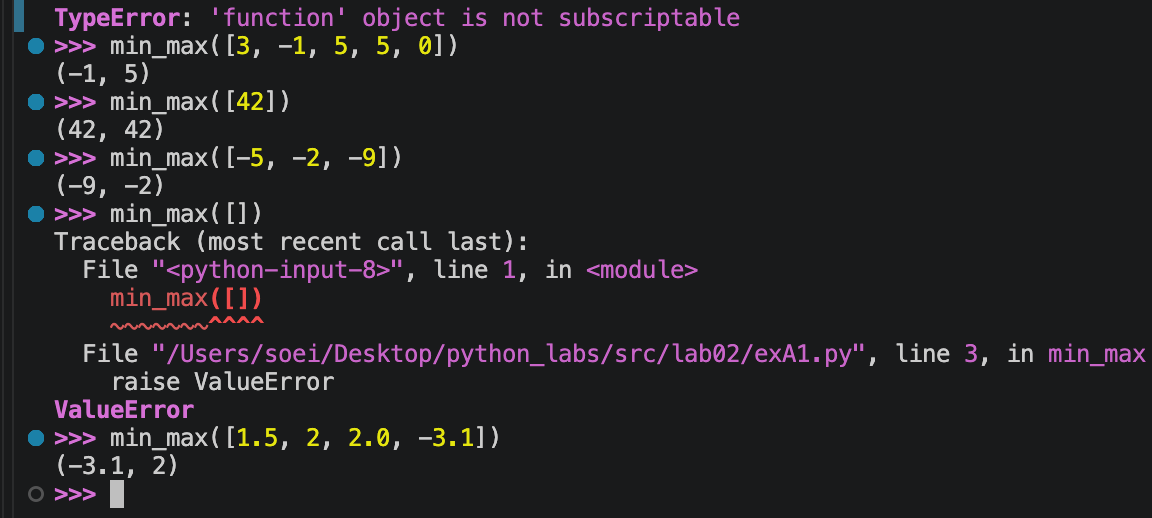
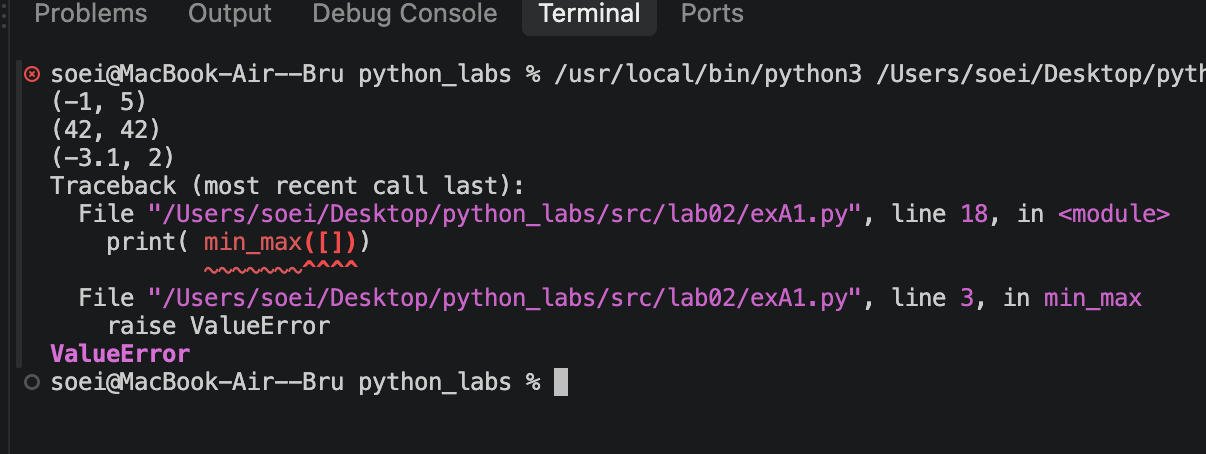
laba

Changed region(s): [[0.0, 0.0, 1.0, 0.9868], [0.3125, 0.2775, 0.3438, 0.3392]]

diff --git a/src/lab02/exA1.py b/src/lab02/exA1.py
@@ -11,4 +11,8 @@ def min_max(nums: list[float | int]) -> tuple[float | int, float | int]:
             max_val = num
 
     return min_val, max_val
- 
+
+print( min_max([3, -1, 5, 5, 0]))
+print( min_max([42]))
+print( min_max([1.5, 2, 2.0, -3.1]))
+print( min_max([]))

diff --git a/src/lab02/README.md b/src/lab02/README.md
@@ -1,4 +1,22 @@
 # python_labs
 # Лабораторная работа 2
 # Задание A1
-![код](./scr/lab02/exA1.py)
+
+## Реализуем функцию поиска минимума и максимума в списке. Сначала проверяем список на пустоту (вызываем ошибку ValueError, если он пуст). Инициализируем минимальное и максимальное значения первым элементом списка. Затем в цикле перебираем оставшиеся числа: если число меньше текущего минимума — обновляем минимум, если больше максимума — обновляем максимум. Возвращаем кортеж из двух значений.
+
+'''python 
+def min_max(nums: list[float | int]) -> tuple[float | int, float | int]:
+    if not nums:
+        raise ValueError
+    
+    min_val = max_val = nums[0]
+
+    for num in nums[1:]:
+        if num < min_val:
+            min_val = num
+        if num > max_val:
+            max_val = num
+
+    return min_val, max_val
+'''
+![фото](../../images/lab02/exA1.png)
